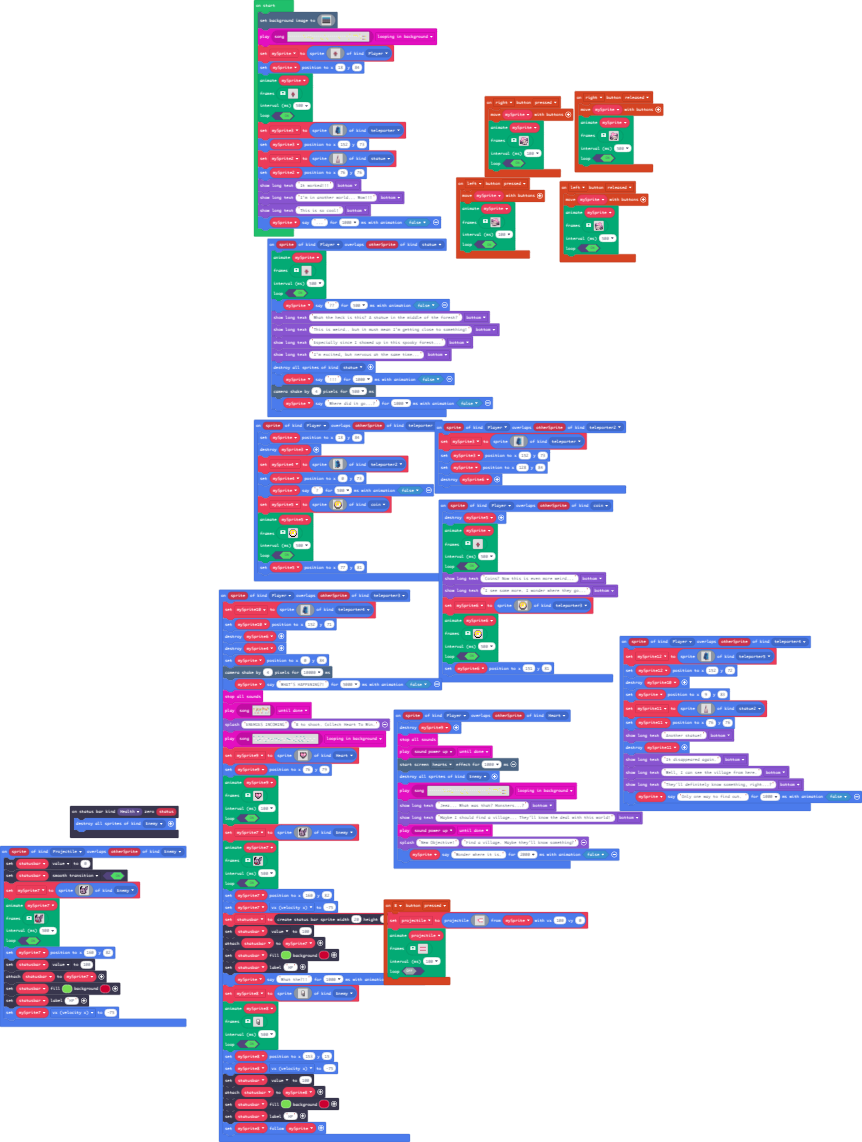
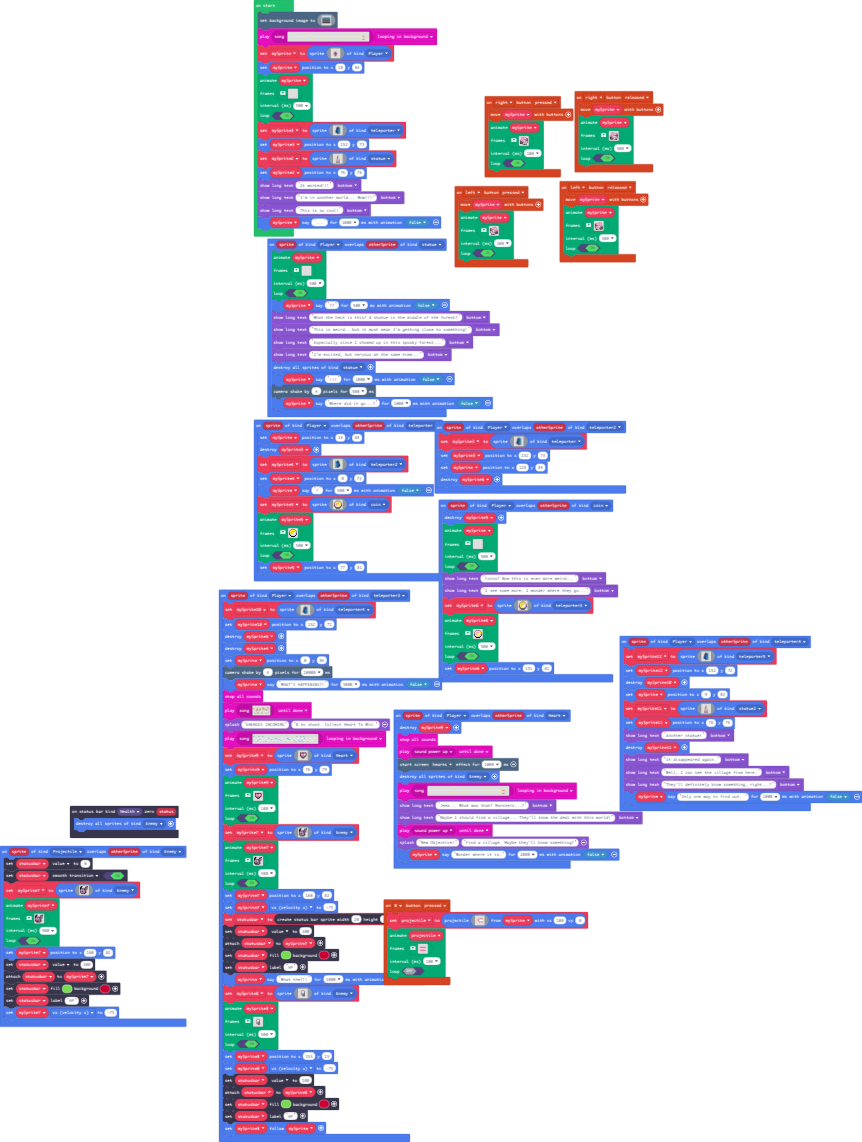
modified code

Changed region(s): [[0.5128, 0.1532, 0.6334, 0.2452]]

diff --git a/images.g.ts b/images.g.ts
@@ -171,268 +171,6 @@ namespace myImages {
 . . . . . . . . . . . . . . . . 
 . . . . . . . . . . . . . . . . 
 `];
-            case "myAnim0":
-            case "anim2":return [img`
-................................................................
-................................................................
-................................................................
-................................................................
-................................................................
-................................................................
-................................................................
-................................................................
-................................dddd............................
-...............................d1111d...........................
-............................dddd1bdd............................
-..........................ddd1111111ddb.........................
-.........................bd11111111111b.........................
-.........................b1111111d11d11b........................
-........................b111d111dd11dd11b.......................
-........................b11dddb1bd11dd11b.......................
-........................b11ddbbdbbd1ddd1d.......................
-........................b1dbdccbdbccdbdb........................
-........................b1bdbdddddbbbb1b........................
-........................bbbdcccdddcccbdb........................
-........................bdbbdcc111ccdddd........................
-........................ddbcb111111bbddd........................
-........................ddddcddddddcdddb........................
-........................bddbbcbbbcbbbdddb.......................
-.......................bdddbcccccccbbddb........................
-........................bbdf22cccc22cbb.........................
-........................ffff222ccc22cff.........................
-..........................f22222222222f.........................
-.........................f2222fccc2222f.........................
-........................fc2222fccc2222cf........................
-.......................fc22e222ff222e22cff......................
-......................ffc22e22222222e222cf......................
-......................fc22ee22222222ee222cf.....................
-.....................fc222ee222ff22eee2222cf....................
-....................fcc222e2222ff2222ee2222cfff.................
-...................fcc222ee222ffffe222ee2222ccc.................
-...................fc222eeee2ebbbb22e2ee222222c.................
-..................fc2222ee2222dddddeee2ee22222c.................
-..................fc2eeee2e2e2ccccc2ee2eee2222c.................
-..................fc2eee2ee2eccccccceee2ee222c..................
-...................ccec22eeeefffffffeeee2eeecc..................
-......................cc2eeeefffffffeeeee2c.....................
-.......................c2eeeeffeffffeeeee2c.....................
-.......................c2eeeccceeccceeeee2c.....................
-.......................c2eecbceeeecbccee2cc.....................
-.......................ccecbbceeeecbbfcec.......................
-........................cccbdceeeecbbf2c........................
-.........................c2cdceeeecddf2c........................
-..........................fddcccccfddf2c........................
-..........................fddf....fddf..........................
-..........................fccf....fccf..........................
-..........................fccf....fccf..........................
-..........................fccf....fccf..........................
-..........................fccf....fccf..........................
-..........................fccf....fccf..........................
-..........................ffff....ffff..........................
-..........................ffff....ffff..........................
-................................................................
-................................................................
-................................................................
-................................................................
-................................................................
-................................................................
-................................................................
-`, img`
-................................................................
-................................................................
-................................................................
-................................................................
-................................................................
-................................................................
-................................................................
-................................................................
-................................................................
-................................dddd............................
-...............................d1111d...........................
-............................dddd1bdd............................
-..........................ddd1111111ddb.........................
-.........................bd11111111111b.........................
-.........................b1111111d11d11b........................
-........................b111d111dd11dd11b.......................
-........................b11dddb1bd11dd11b.......................
-........................b11ddbbdbbd1ddd1d.......................
-........................b1dbdccbdbccdbdb........................
-........................b1bdbdddddbbbb1b........................
-........................bbbdcccdddcccbdb........................
-........................bdbbdcc111ccdddd........................
-........................ddbcb111111bbddd........................
-........................ddddcddddddcdddb........................
-........................bddbbcbbbcbbbdddb.......................
-.......................bdddbcccccccbbddb........................
-........................bbdf22cccc22cbb.........................
-........................ffff222ccc22cff.........................
-.........................ff22222222222f.........................
-........................fc2222fccc2222cf........................
-.......................fc22e222ff222e22cff......................
-......................ffc22e22222222e222cf......................
-......................fc22ee22222222ee222cf.....................
-.....................fc222ee222ff22eee2222cf....................
-....................fcc222e2222ff2222ee2222cfff.................
-...................fcc222ee222ffffe222ee2222ccc.................
-...................fc222eeee2ebbbb22e2ee222222c.................
-..................fc2222ee2222dddddeee2ee22222c.................
-..................fc2eeee2e2e2ccccc2ee2eee2222c.................
-..................fc2eee2ee2eccccccceee2ee222c..................
-...................ccec22eeeefffffffeeee2eeecc..................
-......................cc2eeeefffffffeeeee2c.....................
-.......................c2eeeeffeffffeeeee2c.....................
-.......................c2eeeccceeccceeeee2c.....................
-.......................c2eecbceeeecbccee2cc.....................
-.......................ccecbbceeeecbbfcec.......................
-........................cccbdceeeecbbf2c........................
-.........................c2cdceeeecddf2c........................
-..........................fddcccccfddf2c........................
-..........................fddf....fddf..........................
-..........................fccf....fccf..........................
-..........................fccf....fccf..........................
-..........................fccf....fccf..........................
-..........................fccf....fccf..........................
-..........................fccf....fccf..........................
-..........................ffff....ffff..........................
-..........................ffff....ffff..........................
-................................................................
-................................................................
-................................................................
-................................................................
-................................................................
-................................................................
-................................................................
-`, img`
-................................................................
-................................................................
-................................................................
-................................................................
-................................................................
-................................................................
-................................................................
-................................................................
-................................................................
-................................dddd............................
-...............................d1111d...........................
-............................dddd1bdd............................
-..........................ddd1111111ddb.........................
-.........................bd11111111111b.........................
-.........................b1111111d11d11b........................
-........................b111d111dd11dd11b.......................
-........................b11dddb1bd11dd11b.......................
-........................b11ddbbdbbd1ddd1d.......................
-........................b1dbdccbdbccdbdb........................
-........................b1bdbdddddbbbb1b........................
-........................bbbdcccdddcccbdb........................
-........................bdbbdcc111ccdddd........................
-........................ddbcb111111bbddd........................
-........................ddddcddddddcdddb........................
-........................bddbbcbbbcbbbdddb.......................
-.......................bdddbcccccccbbddb........................
-........................bbdf22cccc22cbb.........................
-........................ffff222ccc22cff.........................
-..........................f22222222222f.........................
-.........................f2222fccc2222f.........................
-........................fc2222fccc2222cf........................
-.......................fc22e222ff222e22cff......................
-......................ffc22e22222222e222cf......................
-......................fc22ee22222222ee222cf.....................
-.....................fc222ee222ff22eee2222cf....................
-....................fcc222e2222ff2222ee2222cfff.................
-...................fcc222ee222ffffe222ee2222ccc.................
-...................fc222eeee2ebbbb22e2ee222222c.................
-..................fc2222ee2222dddddeee2ee22222c.................
-..................fc2eeee2e2e2ccccc2ee2eee2222c.................
-..................fc2eee2ee2eccccccceee2ee222c..................
-...................ccec22eeeefffffffeeee2eeecc..................
-......................cc2eeeefffffffeeeee2c.....................
-.......................c2eeeeffeffffeeeee2c.....................
-.......................c2eeeccceeccceeeee2c.....................
-.......................c2eecbceeeecbccee2cc.....................
-.......................ccecbbceeeecbbfcec.......................
-........................cccbdceeeecbbf2c........................
-.........................c2cdceeeecddf2c........................
-..........................fddcccccfddf2c........................
-..........................fddf....fddf..........................
-..........................fccf....fccf..........................
-..........................fccf....fccf..........................
-..........................fccf....fccf..........................
-..........................fccf....fccf..........................
-..........................fccf....fccf..........................
-..........................ffff....ffff..........................
-................................................................
-................................................................
-................................................................
-................................................................
-................................................................
-................................................................
-................................................................
-`, img`
-................................................................
-................................................................
-................................................................
-................................................................
-................................................................
-................................................................
-................................................................
-................................................................
-................................................................
-................................................................
-................................dddd............................
-...............................d1111d...........................
-............................dddd1bdd............................
-..........................ddd1111111ddb.........................
-.........................bd11111111111b.........................
-.........................b1111111d11d11b........................
-........................b111d111dd11dd11b.......................
-........................b11dddb1bd11dd11b.......................
-........................b11ddbbdbbd1ddd1d.......................
-........................b1dbdccbdbccdbdb........................
-........................b1bdbdddddbbbb1b........................
-........................bbbdbddddddbbbdb........................
-........................bdbbccc111cccddd........................
-........................ddbcb111111bbddd........................
-........................ddddcddddddcdddb........................
-........................bddbbcbbbcbbbdddb.......................
-.......................bdddbcccccccbbddb........................
-........................bbdf22cccc22cbb.........................
-........................ffff222ccc22cff.........................
-..........................f22222222222f.........................
-.........................f2222fccc2222f.........................
-........................fc2222fccc2222cf........................
-.......................fc22e222ff222e22cff......................
-......................ffc22e22222222e222cf......................
-......................fc22ee22222222ee222cf.....................
-.....................fc222ee222ff22eee2222cf....................
-....................fcc222e2222ff2222ee2222cfff.................
-...................fcc222ee222ffffe222ee2222ccc.................
-...................fc222eeee2ebbbb22e2ee222222c.................
-..................fc2222ee2222dddddeee2ee22222c.................
-..................fc2eeee2e2e2ccccc2ee2eee2222c.................
-..................fc2eee2ee2eccccccceee2ee222c..................
-...................ccec22eeeefffffffeeee2eeecc..................
-......................cc2eeeefffffffeeeee2c.....................
-.......................c2eeeeffeffffeeeee2c.....................
-.......................c2eeeccceeccceeeee2c.....................
-.......................c2eecbceeeecbccee2cc.....................
-.......................ccecbbceeeecbbfcec.......................
-........................cccbdceeeecbbf2c........................
-.........................c2cdceeeecddf2c........................
-..........................fddcccccfddf2c........................
-..........................fddf....fddf..........................
-..........................fccf....fccf..........................
-..........................fccf....fccf..........................
-..........................fccf....fccf..........................
-..........................ffff....ffff..........................
-..........................ffff....ffff..........................
-................................................................
-................................................................
-................................................................
-................................................................
-................................................................
-................................................................
-................................................................
-`];
         }
         return null;
     })

diff --git a/main.ts b/main.ts
@@ -410,7 +410,24 @@ sprites.onOverlap(SpriteKind.Player, SpriteKind.coin, function (sprite, otherSpr
     sprites.destroy(mySprite5)
     animation.runImageAnimation(
     mySprite,
-    assets.animation`myAnim0`,
+    [img`
+        . . . . . . . . . . . . . . . . 
+        . . . . . . . . . . . . . . . . 
+        . . . . . . . . . . . . . . . . 
+        . . . . . . . . . . . . . . . . 
+        . . . . . . . . . . . . . . . . 
+        . . . . . . . . . . . . . . . . 
+        . . . . . . . . . . . . . . . . 
+        . . . . . . . . . . . . . . . . 
+        . . . . . . . . . . . . . . . . 
+        . . . . . . . . . . . . . . . . 
+        . . . . . . . . . . . . . . . . 
+        . . . . . . . . . . . . . . . . 
+        . . . . . . . . . . . . . . . . 
+        . . . . . . . . . . . . . . . . 
+        . . . . . . . . . . . . . . . . 
+        . . . . . . . . . . . . . . . . 
+        `],
     500,
     true
     )
@@ -929,7 +946,24 @@ sprites.onOverlap(SpriteKind.Player, SpriteKind.teleporter, function (sprite, ot
 sprites.onOverlap(SpriteKind.Player, SpriteKind.statue, function (sprite, otherSprite) {
     animation.runImageAnimation(
     mySprite,
-    assets.animation`myAnim0`,
+    [img`
+        . . . . . . . . . . . . . . . . 
+        . . . . . . . . . . . . . . . . 
+        . . . . . . . . . . . . . . . . 
+        . . . . . . . . . . . . . . . . 
+        . . . . . . . . . . . . . . . . 
+        . . . . . . . . . . . . . . . . 
+        . . . . . . . . . . . . . . . . 
+        . . . . . . . . . . . . . . . . 
+        . . . . . . . . . . . . . . . . 
+        . . . . . . . . . . . . . . . . 
+        . . . . . . . . . . . . . . . . 
+        . . . . . . . . . . . . . . . . 
+        . . . . . . . . . . . . . . . . 
+        . . . . . . . . . . . . . . . . 
+        . . . . . . . . . . . . . . . . 
+        . . . . . . . . . . . . . . . . 
+        `],
     500,
     true
     )
@@ -1273,7 +1307,24 @@ mySprite = sprites.create(assets.image`myImage3`, SpriteKind.Player)
 mySprite.setPosition(18, 84)
 animation.runImageAnimation(
 mySprite,
-assets.animation`myAnim0`,
+[img`
+    . . . . . . . . . . . . . . . . 
+    . . . . . . . . . . . . . . . . 
+    . . . . . . . . . . . . . . . . 
+    . . . . . . . . . . . . . . . . 
+    . . . . . . . . . . . . . . . . 
+    . . . . . . . . . . . . . . . . 
+    . . . . . . . . . . . . . . . . 
+    . . . . . . . . . . . . . . . . 
+    . . . . . . . . . . . . . . . . 
+    . . . . . . . . . . . . . . . . 
+    . . . . . . . . . . . . . . . . 
+    . . . . . . . . . . . . . . . . 
+    . . . . . . . . . . . . . . . . 
+    . . . . . . . . . . . . . . . . 
+    . . . . . . . . . . . . . . . . 
+    . . . . . . . . . . . . . . . . 
+    `],
 500,
 true
 )
